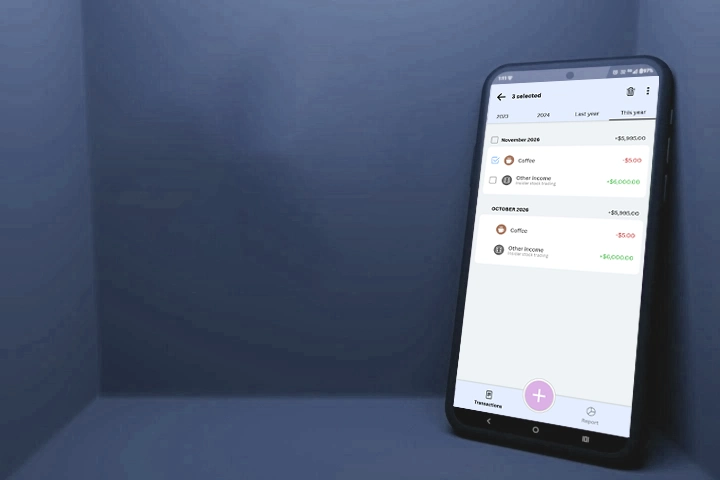
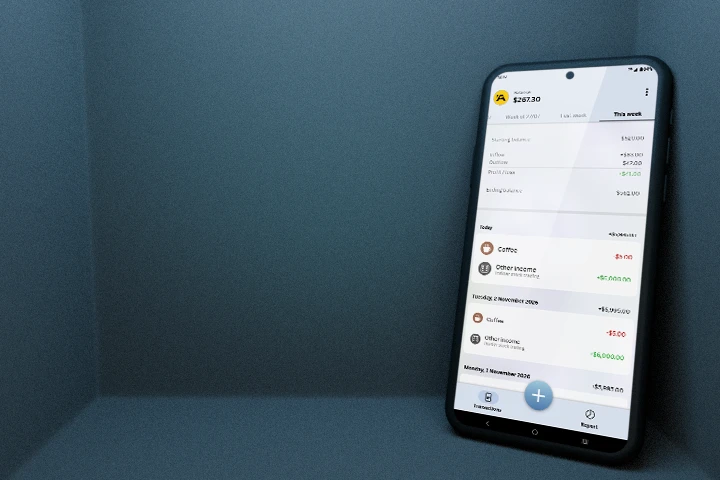
update

diff --git a/articles/understanding-joint-orientations.html b/articles/understanding-joint-orientations.html
@@ -1,0 +1,153 @@
+<!DOCTYPE html>
+<html lang="en">
+    <head>
+        <title>thisuser2000</title>
+        <meta charset="utf-8">
+        <meta name="viewport" content="width=device-width, initial-scale=1">
+		<meta name="description" content="Portfolio website for a user">
+		<link rel="stylesheet" href="../styles/main.css">
+		<link rel="stylesheet" href="../styles/navbar.css">
+		<link rel="stylesheet" href="../styles/modal.css">
+		<link rel="stylesheet" href="../styles/color.css">
+		<link rel="stylesheet" href="../styles/article.css">
+		<link rel="icon" type="image/x-icon" href="assets/favicon.png">
+    </head>
+    <body>
+
+		<div style="display: none;">
+			<img src="assets/icons/article-back.svg"/>
+			<img src="assets/icons/maya-blue.svg"/>
+		</div>
+
+		<nav class="navbar">
+			<img class="logo" src="../assets/icons/thisuser.svg"/>
+			<a class="navbar-page" href="../renders.html">
+				<img src="../assets/icons/renders.svg"/>
+				<span>Renders</span>
+			</a>
+			<a class="navbar-page" href="../animations.html">
+				<img src="../assets/icons/animations.svg"/>
+				<span>Animations</span>
+			</a>
+			<a class="navbar-page" href="../software.html">
+				<img src="../assets/icons/software.svg"/>
+				<span>Software</span>
+			</a>
+			<a class="navbar-page" href="../writing.html">
+				<img src="../assets/icons/writing.svg"/>
+				<span>Writing</span>
+			</a>
+			<div id="menuButton" onclick="toggleMenu()">
+				<img src="../assets/icons/menu.svg"/>
+			</div>
+			<div class="navbar-divider"></div>
+        </nav>
+
+		<div id="menu">
+			<a class="menu-page" href="../renders.html">
+				<img src="../assets/icons/renders.svg"/>
+				<span>Renders</span>
+			</a>
+			<div class="menu-divider"></div>
+			<a class="menu-page" href="../animations.html">
+				<img src="../assets/icons/animations.svg"/>
+				<span>Animations</span>
+			</a>
+			<div class="menu-divider"></div>
+			<a class="menu-page" href="../software.html">
+				<img src="../assets/icons/software.svg"/>
+				<span>Software</span>
+			</a>
+			<div class="menu-divider"></div>
+			<a class="menu-page" href="../writing.html">
+				<img src="../assets/icons/writing.svg"/>
+				<span>Writing</span>
+			</a>
+		</div>
+
+		<div id="content" onclick="hideMenu()">
+
+			<div style="display: flex; flex-direction: column; align-items: center; position: relative;">
+
+				<div class="banner" style="background-image: url('../assets/media/writing/joint/001.png'); opacity: 70%;">
+		            <div class="banner-gradient">
+		            </div>
+		        </div>
+
+				<div style="position: absolute;">
+
+					<section class="section-top section-bottom">
+						<div class="container" style="max-width: 700px;">
+							<a href="../writing.html">
+								<div class="article-backButton">
+									<img src="../assets/icons/article-back.svg"/>
+									<span>Back</span>
+								</div>
+							</a>
+							<p class="article-title">Understanding Joint Orientations</p>
+							<p class="article-date">19 November 2026</p>
+
+							<div class="article-divider"></div>
+
+							<div class="article-section">
+								<p class="article-body">
+									When it comes to creating rigs in Maya, making sure your joints’ orientations are set up properly is crucial to allow for predictable rotations. In this short article, I’ll be clearing up some of the confusion surrounding Maya’s Orient Joint Tool.
+									<br><br>
+									The three axes must always be perpendicular to each other and be arranged in a specific layout (you don’t need to manage this yourself, Maya does it internally) This may be different in other software packages, but in Maya, X-positive is considered right, Y-positive is up and Z-positive is forward (coming out of the screen towards you). When orbiting around your scene, you can watch the graphic change in the bottom-left corner of the viewport to keep track of which way is which.
+									<br><br>
+									<img class="article-image" src="../assets/media/writing/joint/002.png" />
+									<span class="article-caption">The world axis graphic in the corner of the viewport</span>
+									<br><br>
+									You’ll find the Orient Joint tool in the Skeleton menu of the Rigging menu set. Click the square next to it or shift-click the menu item to open its option box. Once it opens, click the Toggle button near the bottom of the window to reveal the selected joints rotational axes. This will save a lot of time reselecting things throughout the rest of the tutorial.
+									<br><br>
+									<img class="article-image" src="../assets/media/writing/joint/004.png" />
+									<span class="article-caption">The Orient Joint options window</span>
+									<br><br>
+									The first option you’ll see is Orient Joint to World. This one is fairly easy to understand and due to its simplicity enabling it hides most of the other options. Confirming the settings with your joints selected will lead to them all matching the graphic mentioned earlier in the corner of the viewport (the world axes). Despite most of the other options being greyed-out, you can still decide whether to “orient children” or “reorient local scale axes”. We won’t be worrying about the latter in this article, but the former simply saves you the hassle of selecting child joints (that is, every joint downstream from the chosen one).
+									<br><br>
+									There are also options for toggling, modifying and freezing the local rotation axes. We’ve already been through the first one. The other two allow you to manually change the rotational axes instead of relying on the automatic controls in the top section of the window. After selecting a joint, click Modify and the rotation manipulator will appear. Despite its appearance, this is not the same as rotating the joint itself so be careful. Play around with the manipulator and you’ll notice the local rotation axes change to follow it (for best results, I recommend having your rotation tool set to object mode before doing this so that the manipulator remains aligned with the axes). After making your changes, click freeze to finalize them. This is essentially the alternative to the apply button when making manual adjustments.
+									<br><br>
+									Manually changing the rotation axes has its uses, but when working with multiple joints it's faster and more accurate to use the options in the top section of the window instead. If you haven’t already, uncheck Orient Joint to World to reveal all the other settings.
+									<br><br>
+									When rigging it’s best to have one axis pointing down the chain/bone towards the child joint. This is referred to as the primary axis and for simplicity’s sake I prefer to set this to X. Below this you can pick a secondary axis, the secondary axis world orientation (either positive or negative) and whether or not to automatically orient the secondary axis. You may be wondering why there’s no mention of the tertiary axis, and this is because it’s automatically calculated once the primary and secondary axes are set (remember that they must always be perpendicular). Using the same reasoning as before, I keep the secondary axis set to Y, although feel free to choose your own as long as it doesn’t conflict with the primary axis. You can also choose None, but I admit I don’t fully understand how this works, just that it’s less predictable as you’re leaving Maya to decide.
+									<br><br>
+									This next part is where things get complicated. Even though we’ve told X to point down the chain, we still need to decide which direction Y should point. First, make sure Auto Orient Secondary Axis is disabled. You can choose X, Y or Z for the world orientation, as well as positive or negative, leaving you with 6 options. Depending on the shape of your skeleton, some of these options might appear to have the same result for a specific joint.
+									<br><br>
+									Keeping in mind the primary axis must point down the chain, and the secondary axis must be perpendicular to it, the option you choose here will decide which direction the secondary axis “floats” toward despite its constraints. You might also notice that the changes didn’t apply to the end/terminal joints. Select these end joints and enable Orient Joint to World. Despite its name, this essentially makes the rotation axes of these joints match their parents, and is good practice to use.
+									<br><br>
+									Once all that makes sense, enable Auto Orient Secondary Axis and we’ll start to cover some serious rocket science.
+									<br><br>
+									The Maya documentation has this to say about the setting:
+									<br><br><br>
+									<span style="font-size: 1.4rem;"><i>&quotOrients the secondary axis using neighbouring joints. Activating Auto orient secondary axis also sets root joints to the plane defined by the child/grand-child joints and zeroes the joint orientation of terminal joints (that is, joints without children, so they match their parent's orientation).&quot</i></span>
+									<br>
+									<a href="https://help.autodesk.com/view/MAYAUL/2026/ENU/?guid=GUID-29DF5D0F-1BDE-4464-850C-45769B3CF1CA" target="_blank" style="color: #0060ff !important;">[source]</a>
+									<br><br><br>
+									That last part about zeroing the joint orientation of terminal joints is convenient as that’s what we just discussed. To help you understand the rest, let’s have a look at a skeleton setup that vaguely resembles the joints you would use for a biped’s pelvis, clavicle, shoulder and wrist.
+									<br><br>
+									Auto Orient works by calculating a hypothetical triangular plane with its three vertices snapped to the selected joint, its immediate parent and immediate child (or in the case of the root joint, itself, immediate child and grandchild). Considering the terminal joint inherits its orientations from its parent, that means our 4-joint setup has 2 planes to work with.
+									<br><br>
+									<img class="article-image" src="../assets/media/writing/joint/005.png" />
+									<br><br>
+									In this example, I’ve created two planes that follow these rules for the clavicle and shoulder. The pelvis and wrist use the same planes as the clavicle and shoulder respectively. I then selected the faces of the planes and extruded them outwards for easier visualization.
+									<br><br>
+									Regardless of which secondary axis world orientation you set, the secondary axis is constrained to the perpendicular edge made visible thanks to the extrusion. It can still point forward or backward along this edge, leaving us with only 2 possible outcomes. This is where the secondary axis world orientation decides the winner. In the example shown, I’ve chosen X for the primary axis, Y for the secondary axis and Z-negative for the secondary axis world orientation.
+								</p>
+							</div>
+
+							<div class="article-end"></div>
+
+						</div>
+					</section>
+
+				</div>
+
+			</div>
+
+		</div>
+
+		<script src="../scripts/bootstrap.bundle.min.js"></script>
+		<script src="../scripts/navbar.js"></script>
+
+    </body>
+</html>

diff --git a/writing.html b/writing.html
@@ -76,6 +76,16 @@
 					<div class="divider"></div>
 					<div class="list">
 
+						<a href="articles/understanding-joint-orientations.html">
+							<div class="listItem">
+								<img src="assets/media/writing/joint.png" />
+								<div class="listItem-text">
+									<p class="listItem-title">Understanding Joint Orientations</p>
+									<p class="listItem-subtitle">19 November 2026</p>
+								</div>
+							</div>
+						</a>
+
 						<a href="articles/rigging-an-eye.html">
 							<div class="listItem">
 								<img src="assets/media/writing/eye.png" />
